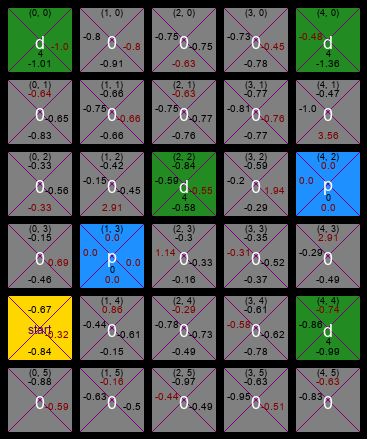
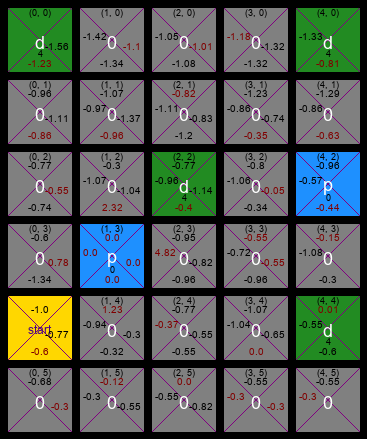
Added delivery steps performant measurement

diff --git a/main.py b/main.py
@@ -45,12 +45,12 @@ best_steps = SECOND_STEPS  # EXPERIMENTAL FEATURE
 best_episode = 0  # EXPERIMENTAL FEATURE
 '''
 
-alpha = 0.15  # learning rate
-gamma = 0.45  # discount rate
-epsilon = 0.7  # chance of being greedy in exploit policy
+alpha = 0.3  # learning rate
+gamma = 0.5  # discount rate
+epsilon = 0.8  # chance of being greedy in exploit policy
 
 # BANK ACCOUNT (USE FOR MEASURING PERFORMANCE)
-plot_steps = np.arange(SECOND_STEPS)  # step array use for plotting
+bank_plot_steps = np.arange(SECOND_STEPS)  # step array use for plotting
 bank = []
 bank_account = [0]
 # put bank account in the bank
@@ -60,26 +60,50 @@ def regBankAccount():
     bank_account = [0]
     print('Put episode', episode, 'account in the bank')
 
-def plotPerformance():
+def plotPerformanceBank():
+    plt.figure(1)
     print(len(bank), 'episodes')
     max_len = []
     for ba in bank:
         max_len.append(len(ba))
     for i, ba in enumerate(bank):
-        plt.plot(plot_steps[:max(max_len)],
+        plt.plot(bank_plot_steps[:max(max_len)],
                  np.pad(ba, (0, max(max_len) - len(ba)),
                         'constant', constant_values=ba[len(ba) - 1]), label='e%d' % (i + 1))
     plt.xlabel('Steps')
     plt.ylabel('Accumulated reward')
     plt.legend()
-    plt.savefig('performance_plot.png')
-    plt.show()
+    plt.savefig('performance_bank_plot.png')
 
 # ----------------------------------------------------------
 
 # DELIVERY STEPS (MEASURE PERFORMANCE)
+delivery_plot_steps = np.arange(FIRST_STEPS + SECOND_STEPS)
+delivery_steps = 0
+prev_del_step = 0
+num_of_blocks_delivered = 0
+delivery_tracker = np.zeros(FIRST_STEPS + SECOND_STEPS)
 
+def plotPerformanceDelSteps():
+    plt.figure(2)
+    curr_nob = 0
+    last_pos = 0
+    for i, n in enumerate(delivery_tracker):
+        if curr_nob == 16:
+            curr_nob = -1
+        if n == curr_nob + 1:
+            curr_nob += 1
+            incre = 1/(i - last_pos)
+            for j in range(last_pos + 1, i):
+                delivery_tracker[j] = delivery_tracker[j-1] + incre
+            last_pos = i
 
+    for a in delivery_tracker:
+        print(a)
+    plt.plot(delivery_plot_steps, delivery_tracker)
+    plt.xlabel('Steps')
+    plt.ylabel('Block delivered')
+    plt.savefig('performance_del_steps_plot.png')
 
 # ----------------------------------------------------------
 
@@ -102,12 +126,11 @@ def getAcceptedInput(question, accepted_inputs, return_values):
 def main():
     # take user input
     global fourth_expm, watch, drop_off_loc, pick_up_loc
-    default = getAcceptedInput("Use default (SARSA, PEXPLOIT, no monitor, plot)?\n(yes/no):",
+    default = getAcceptedInput("Use default (Q_LEARNING, PEXPLOIT, no monitor, plot)?\n(yes/no):",
                                ['yes', 'no'], [True, False])
-    plot = False
     policy = ''
     if default:
-        method = "SARSA"
+        method = "Q_LEARNING"
         policy = "PEXPLOIT"
         watch = False
         plot = True
@@ -191,18 +214,27 @@ def main():
         putAgent(h, w, q_table, world, vis_objs['q_table_with_block'], has_block, x, y, start_x, start_y, 'ab')
     else:
         putAgent(h, w, q_table, world, vis_objs['q_table_no_block'], has_block, x, y, start_x, start_y, 'a')
+    # plot
     if plot:
-        plotPerformance()
+        plotPerformanceBank()
+        plotPerformanceDelSteps()
+        plt.show()
 
 def applyAction(action):
     global drop_off_loc
     global pick_up_loc
     global has_block
     global world
+    global num_of_blocks_delivered
     if action == 'd':
         world[(x, y)]['no_of_blocks'] += 1
+        # DELIVER BLOCK STEPS PERFORMANCE MEASURE
+        num_of_blocks_delivered += 1
+        delivery_tracker[delivery_steps] = num_of_blocks_delivered
+
+        # ----------------------------
+
         if world[(x, y)]['no_of_blocks'] == 4:
-            print(x, y)
             drop_off_loc.remove((x, y))
             # RECORD FIRST TIME A DROP OFF IS FULL
             if episode == 1 and len(drop_off_loc) == 3:
@@ -276,7 +308,8 @@ def sarsa(state, action, reward, next_state, next_actions, policy):
 
 def doSteps(steps, policy, method):
     global x, y, drop_off_loc, pick_up_loc, has_block, \
-        done, world, q_offset, q_table, count_steps, episode, watch, bank_account
+        done, world, q_offset, q_table, count_steps, episode, watch
+    global num_of_blocks_delivered, delivery_steps, bank_account
     '''
     global best_q_table, best_steps, best_episode  # EXPERIMENTAL FEATURE
     '''
@@ -285,6 +318,7 @@ def doSteps(steps, policy, method):
     wtn = True  # from with block to no block
 
     for step in range(0, steps):
+        delivery_steps += 1
         # this "state" is used for q_table
         state = states[y][x]
         if (has_block): state += q_offset
@@ -301,12 +335,12 @@ def doSteps(steps, policy, method):
             action, reward = exploitAction(state, valid_actions, epsilon)
         elif (policy == 'PGREEDY'):
             action, reward = greedyAction(state, valid_actions)
-        bank_account.append(bank_account[len(bank_account)-1]+reward)
-        # has_block gets updated here
-        applyAction(action)
 
         # BANK THE REWARD
+        bank_account.append(bank_account[len(bank_account)-1]+reward)
 
+        # has_block gets updated here
+        applyAction(action)
 
         next_x, next_y = getNextCoords(action, world, x, y)
         if (coordsNotValid(next_x, next_y, w, h)): break
@@ -331,6 +365,8 @@ def doSteps(steps, policy, method):
         # if terminal state reached
         # reset world, put agent back at start
         if len(pick_up_loc) == 0 and len(drop_off_loc) == 0:  # or (policy == 'PGREEDY' and steps == best_steps):
+            # RESET num_of_blocks_delivered
+            num_of_blocks_delivered = 0
             # Put episode bank account in the bank
             regBankAccount()
             # RECORD FIRST TERMINATE
